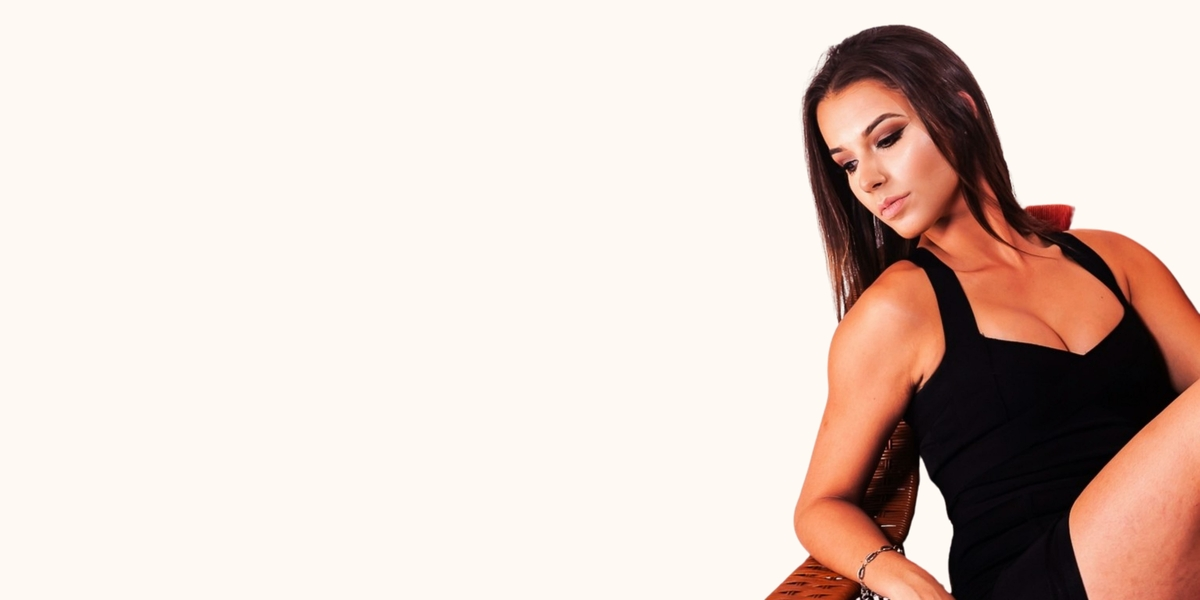
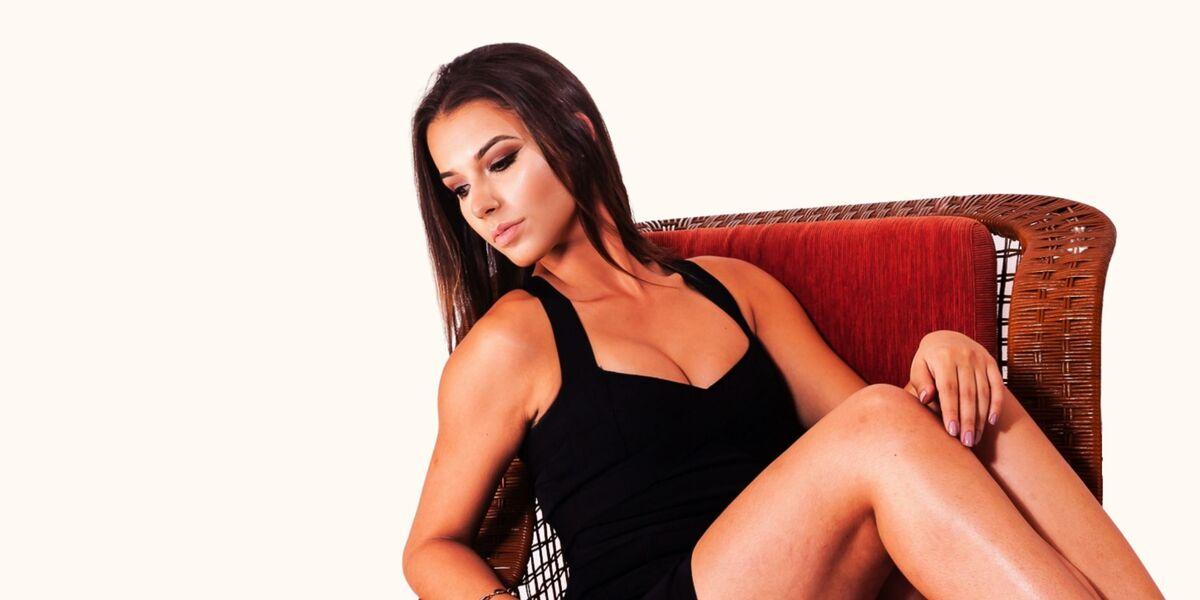
Change hero image

diff --git a/themes/oludo/assets/sass/main.scss b/themes/oludo/assets/sass/main.scss
@@ -465,8 +465,9 @@ article {
                 height: 100%;
                 width: 100%;
                 background-image: url(/images/hero.jpg);
+                background-repeat: no-repeat;
                 background-size: cover;
-                background-position: right bottom;
+                background-position: 150px 0px;
                 display: block;
                 top: 0;
                 left: 0;
@@ -476,7 +477,7 @@ article {
 
         & > main {
             display: grid;
-            grid-template-columns: minmax(100px, auto) repeat(2,330px) minmax(100px, auto);
+            grid-template-columns: minmax(100px, auto) repeat(2, 280px) minmax(100px, auto);
             grid-template-areas:
                 ". problem problem ."
                 "how how how how"
